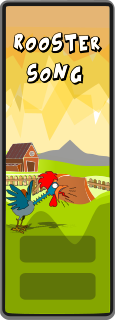
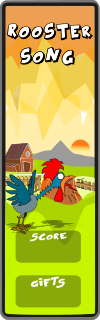
Inserção de mais duas temporadas na tela de temporadas.

diff --git a/core/src/br/com/chickenroad/screens/screenparts/SeasonMenu.java b/core/src/br/com/chickenroad/screens/screenparts/SeasonMenu.java
@@ -17,31 +17,32 @@ public class SeasonMenu {
 	private AssetManager assetManager;
 	private Sound soundRooster;
 	//com varias fases, trocar figuras
-	private String seasonList[] = {"seasons/seasonRoosterSong.png", "seasons/seasonDayByDay1.png"};
+	private String seasonList[] = {"seasons/seasonRoosterSong.png", "seasons/seasonFireInFarm.png",  
+					"seasons/seasonInvasion1.png", "seasons/seasonHorrorNight.png"};
 
 	private ArrayList<Sprite> spriteSeasonList;
 
-	private int fase_atual = 0;
+	private int sessaoAtual = 0;
 
 	//construtor
 	public SeasonMenu(){
 		soundRooster = Gdx.audio.newSound(Gdx.files.internal(Constantes.URL_SOUND_ROOSTER));
 
 		//testando
-		fase_atual = 0;//PreferencesUser.getFase();
+		sessaoAtual = 0;//PreferencesUser.getFase();
 
 		//TODO trocar figura e string
 		spriteSeasonList = new ArrayList<Sprite>();
 
 		int cont = 0;
-		int spriteFaseListHeight = 80;// Constantes.WORLD_HEIGHT/2+90;
+		int spriteFaseListHeight = 100;// Constantes.WORLD_HEIGHT/2+90;
 
 		String picture;
 		for(int i=0;i<seasonList.length;i++){
-			if(i <= fase_atual)
+			if(i <= sessaoAtual)
 				picture = seasonList[0];    //Aqui ser� apontada a fase correta. Por enquanto, ser� a figura de fase 1 para todas as fases ABERTAS.
 			else
-				picture = "seasons/seasonDayByDay1.png";
+				picture = seasonList[i];
 
 			Sprite sprite = new Sprite(new Texture(picture));
 			spriteSeasonList.add(sprite);
@@ -51,10 +52,10 @@ public class SeasonMenu {
 				if(cont != 0) spriteFaseListHeight -= 110;
 				
 				cont = 0;
-				spriteSeasonList.get(i).setPosition(Constantes.WORLD_WIDTH/2 - 140, spriteFaseListHeight);
+				spriteSeasonList.get(i).setPosition(Constantes.WORLD_WIDTH/2 - 236, spriteFaseListHeight);
 			}else {
 				++cont;
-				spriteSeasonList.get(i).setPosition(Constantes.WORLD_WIDTH/2- 120 +155*cont, spriteFaseListHeight);
+				spriteSeasonList.get(i).setPosition(Constantes.WORLD_WIDTH/2- 236 +125*cont, spriteFaseListHeight);
 			}
 		}
 	}
@@ -71,7 +72,7 @@ public class SeasonMenu {
 		for(int i=0;i<seasonList.length;i++){
 			if(spriteSeasonList.get(i).getBoundingRectangle().contains(x, y)){
 				soundRooster.play();
-				if(i<=fase_atual)
+				if(i<=sessaoAtual)
 					return i;
 			}
 		}
